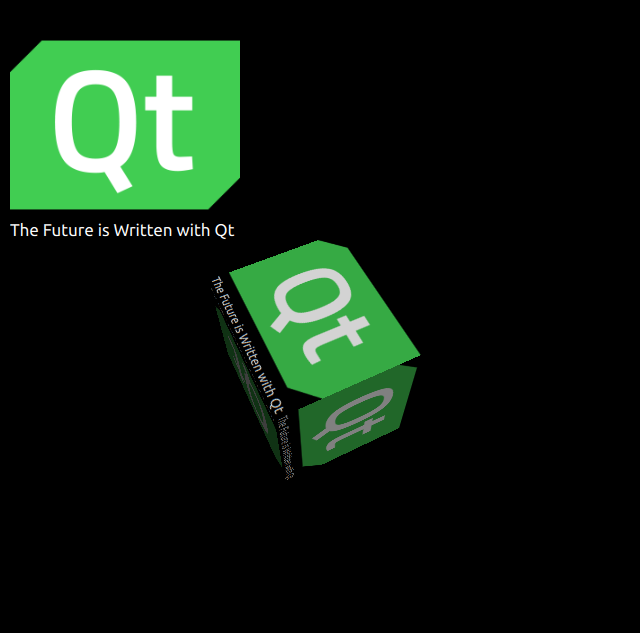
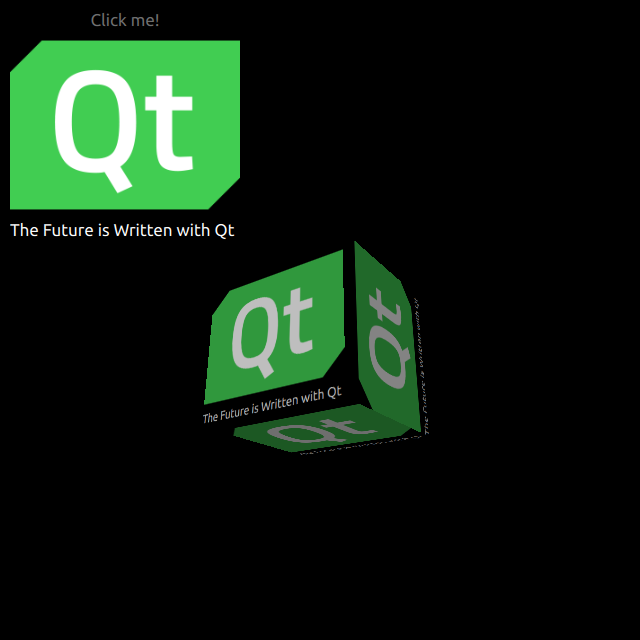
QtQuick3D Example (Hellocube) : improvement
using dynamicTexture

diff --git a/qtquick3d/examples/quick3d/hellocube/main.qml b/qtquick3d/examples/quick3d/hellocube/main.qml
@@ -66,62 +66,62 @@ Window {
         anchors.top: parent.top
         anchors.left: parent.left
         anchors.margins: 10
-        color: "black"
-
-        property int angle: 0
+        color: "transparent"
 
         //! [offscreenSurface]
         layer.enabled: true
         //! [offscreenSurface]
 
-        //! [2d]
-        Image {
+        Rectangle {
             anchors.fill: parent
-            source: "qt_logo.png"
-        }
-        Text {
-            id: text
-            anchors.bottom: parent.bottom
-            anchors.left: parent.left
-            color: "white"
-            font.pixelSize: 17
-            text: qsTr("The Future is Written with Qt")
-        }
-        //! [2d]
+            color: "black"
 
-        //! [2danimation]
-        transform: Rotation {
-            id: rotation
-            origin.x: qt_logo.width / 2
-            origin.y: qt_logo.height / 2
-            axis { x: 1; y: 0; z: 0 }
-            angle: qt_logo.angle
-        }
-
-        states: [
-            State {
-                name: "flipped";
-                PropertyChanges { target: rotation; angle: 180 }
+            //! [2d]
+            Image {
+                anchors.fill: parent
+                source: "qt_logo.png"
             }
-        ]
+            Text {
+                id: text
+                anchors.bottom: parent.bottom
+                anchors.left: parent.left
+                color: "white"
+                font.pixelSize: 17
+                text: qsTr("The Future is Written with Qt")
+            }
+            //! [2d]
 
-        PropertyAnimation {
-            id: flip1
-            target: rotation
-            property: "angle"
-            duration: 600
-            to: 180
-            from: 0
+            //! [2danimation]
+            transform: Rotation {
+                id: rotation
+                origin.x: qt_logo.width / 2
+                origin.y: qt_logo.height / 2
+                axis { x: 1; y: 0; z: 0 }
+            }
+
+            PropertyAnimation {
+                id: flip1
+                target: rotation
+                property: "angle"
+                duration: 600
+                to: 180
+                from: 0
+            }
+            PropertyAnimation {
+                id: flip2
+                target: rotation
+                property: "angle"
+                duration: 600
+                to: 360
+                from: 180
+            }
+            //! [2danimation]
+
+            onRotationChanged: {
+                qt_logo.layer.destroy();
+                texture.destroy();
+            }
         }
-        PropertyAnimation {
-            id: flip2
-            target: rotation
-            property: "angle"
-            duration: 600
-            to: 360
-            from: 180
-        }
-        //! [2danimation]
     }
 
     View3D {
@@ -169,18 +169,43 @@ Window {
     }
 
     MouseArea {
+        id: mouseArea
         anchors.fill: qt_logo
+
+        Text {
+            id: clickme
+            anchors.top: mouseArea.top
+            anchors.horizontalCenter: mouseArea.horizontalCenter
+            font.pixelSize: 17
+            text: "Click me!"
+            color: "white"
+
+            SequentialAnimation on color {
+                loops: Animation.Infinite
+                ColorAnimation { duration: 400; from: "white"; to: "black" }
+                ColorAnimation { duration: 400; from: "black"; to: "white" }
+            }
+
+            states: [
+                State {
+                    name: "flipped";
+                    AnchorChanges {
+                        target: clickme
+                        anchors.top: undefined
+                        anchors.bottom: mouseArea.bottom
+                    }
+                }
+            ]
+        }
+
         onClicked: {
-            if (qt_logo.state == "flipped") {
-                qt_logo.state = "";
+            if (clickme.state == "flipped") {
+                clickme.state = "";
                 flip2.start();
-                texture.flipV = true;
             } else {
-                qt_logo.state = "flipped";
+                clickme.state = "flipped";
                 flip1.start();
-                texture.flipV = false;
             }
         }
     }
-
 }
